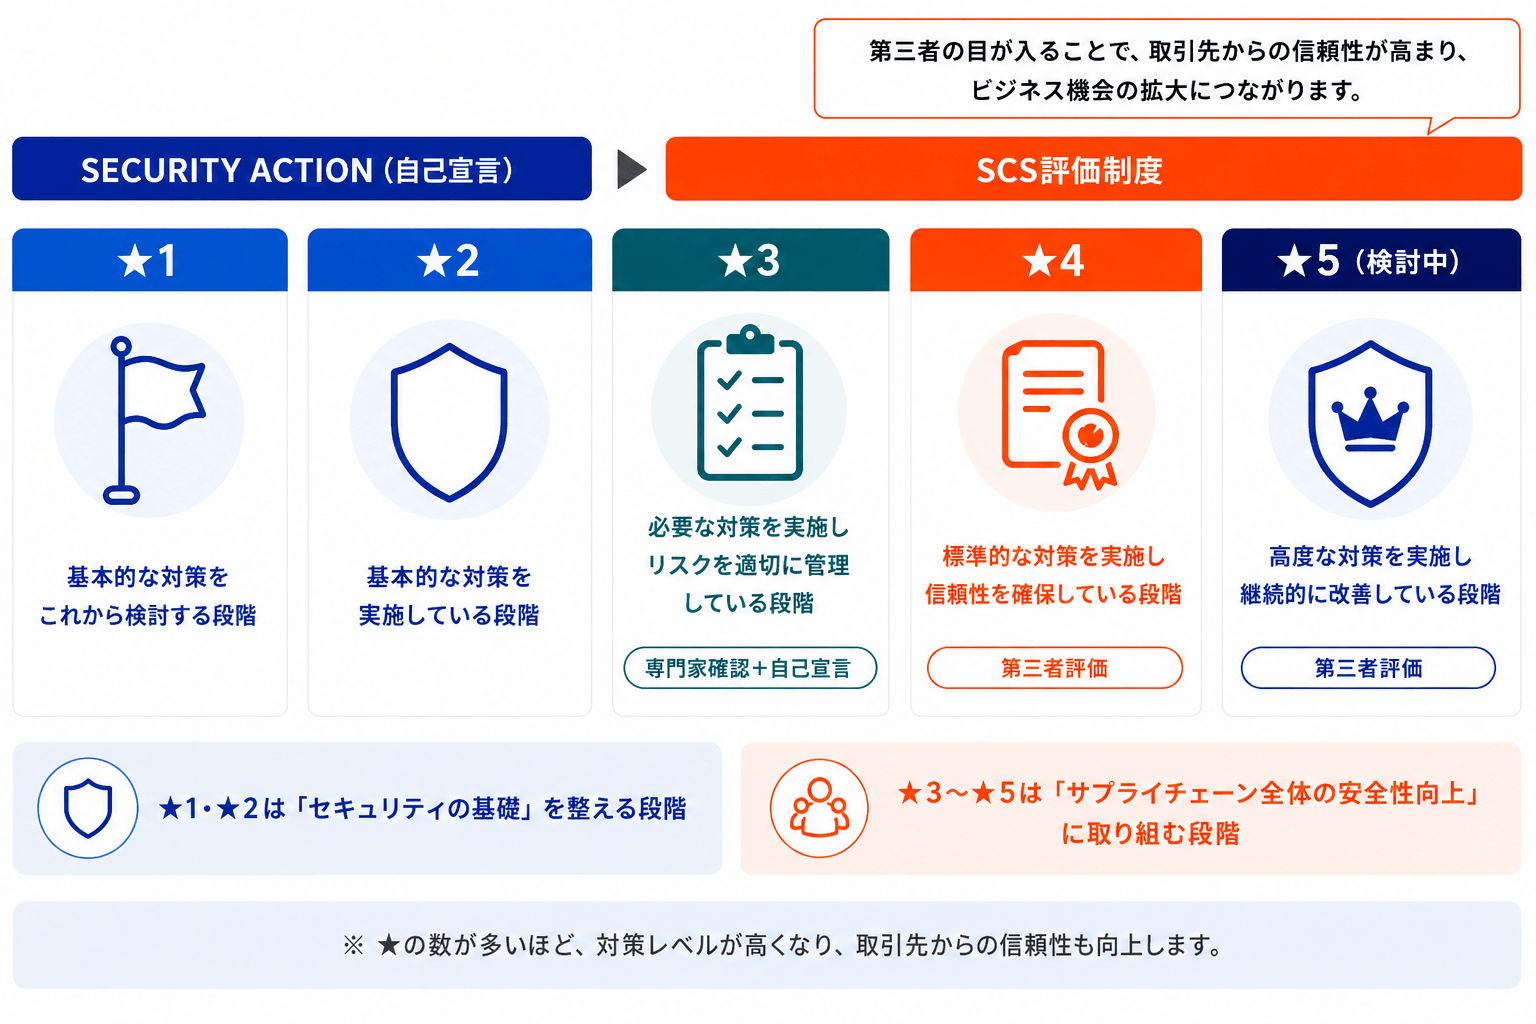
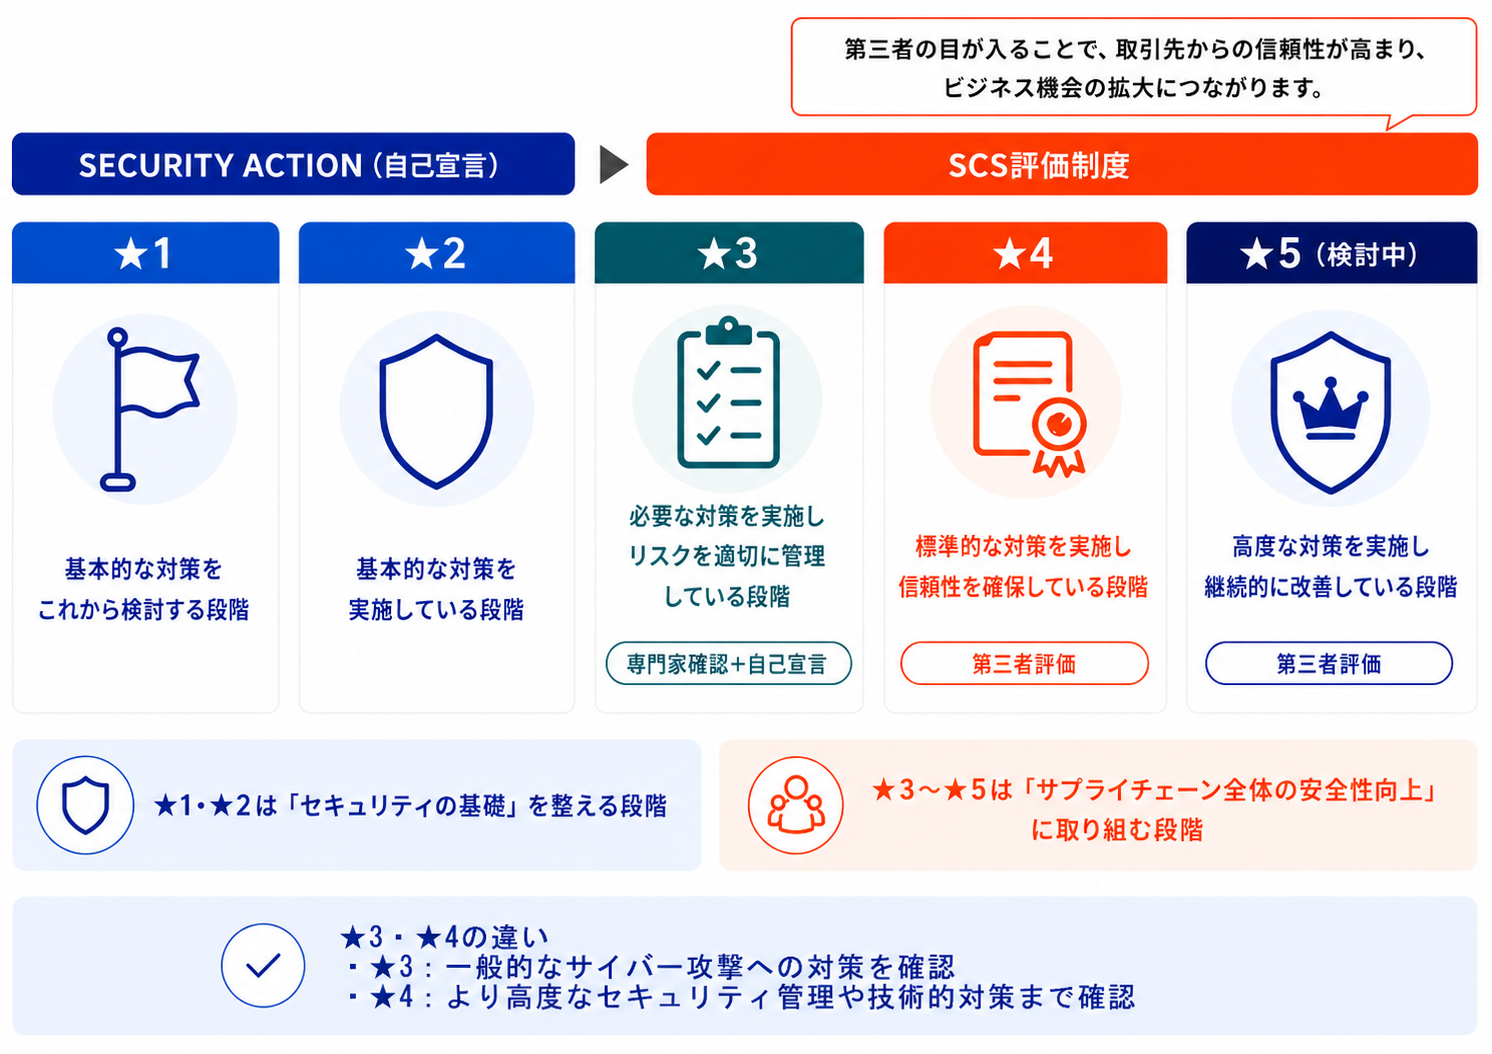
SCS LPの訴求追加とレスポンシブ表示を調整

diff --git a/index.html b/index.html
@@ -37,7 +37,7 @@
             <div class="hero__content">
                 <div class="hero__title-wrap">
                     <h1 class="hero__title">
-                        取引先から<br class="hero__line-break--1">「セキュリティ対策」を<br class="hero__line-break--2">求められる前に。</h1>
+                        取引先から<br class="hero__line-break--1">「セキュリティ対策」を<br class="hero__line-break--2">求められる前に</h1>
                 </div>
                 <div class="hero__lead-wrap">
                     <div class="hero__lead">
@@ -245,8 +245,10 @@
                                 class="concerns__line-break--1">「また一から対応が必要？」「今の運用は活かせないの？」と不安を感じている。</p>
                     </article>
                 </div>
-                <div class="concerns__conclusion">
-                    早めに制度対応を進めることで、取引先への信頼性向上や競合他社との差別化につながります</div>
+                <p class="concerns__conclusion">早めに制度対応を進めることで、取引先への信頼性向上や競合他社との差別化につながります</p>
+                <div class="concerns__certification">
+                    <p class="concerns__certification-note">ISMS・Pマーク取得企業様は<br>既存のルールや運用を活かして効率的に対応できます</p>
+                </div>
             </div>
         </section>
 
@@ -302,8 +304,7 @@
                             <h4 class="support__heading-quaternary--3">対策案の実施・運用</h4>
                             <p class="support__step-text--implementation">
                                 必要に応じて規程・手順書の作成・記録類の整備を支援します。<br
-                                    class="support__line-break--7">運用しやすさを重視し、「作って終わり」ではなく、実際に使える仕組みづくりを行います。<br
-                                    class="support__line-break--9">お客様には定めたルールの運用をお願いいたしします。
+                                    class="support__line-break--7">運用しやすさを重視し、「作って終わり」ではなく、実際に使える仕組みづくりを行います。
                             </p>
                         </div>
                     </article>
@@ -364,6 +365,30 @@
             </div>
         </section>
 
+        <section class="recommended">
+            <div class="recommended__inner">
+                <h2 class="recommended__heading">こんな企業様におすすめです</h2>
+                <div class="recommended__item-list">
+                    <div class="recommended__item--1">
+                        <p>・将来的な取引先要求に備えたい</p>
+                    </div>
+                    <div class="recommended__item--2">
+                        <p>・★3・★4取得を目指したい</p>
+                    </div>
+                    <div class="recommended__item--3">
+                        <p>・セキュリティ対策を見直したい</p>
+                    </div>
+                    <div class="recommended__item--4">
+                        <p>・制度開始後に慌てたくない</p>
+                    </div>
+                    <div class="recommended__item--5">
+                        <p>・まずは現状を整理したい</p>
+                    </div>
+                </div>
+            </div>
+        </section>
+
+
         <section class="proposal">
             <div class="proposal__inner">
                 <h2 class="proposal__heading">
@@ -412,29 +437,6 @@
             </div>
         </section>
 
-        <section class="recommended">
-            <div class="recommended__inner">
-                <h2 class="recommended__heading">こんな企業様におすすめです</h2>
-                <div class="recommended__item-list">
-                    <div class="recommended__item--1">
-                        <p>・将来的な取引先要求に備えたい</p>
-                    </div>
-                    <div class="recommended__item--2">
-                        <p>・★3・★4取得を目指したい</p>
-                    </div>
-                    <div class="recommended__item--3">
-                        <p>・セキュリティ対策を見直したい</p>
-                    </div>
-                    <div class="recommended__item--4">
-                        <p>・制度開始後に慌てたくない</p>
-                    </div>
-                    <div class="recommended__item--5">
-                        <p>・まずは現状を整理したい</p>
-                    </div>
-                </div>
-            </div>
-        </section>
-
         <section class="consultation">
             <div class="consultation__inner">
                 <h2 class="consultation__heading">無料相談でここまで分かります</h2>
@@ -462,6 +464,7 @@
                 </div>
             </div>
         </section>
+
 
         <section class="contact" id="contact-form">
             <div class="contact__inner">

diff --git a/style.css b/style.css
@@ -120,7 +120,6 @@ section,
 .scs-overview__content,
 .security-action__lead,
 .preparation__issues-box,
-.support__introduction,
 .proposal__description,
 .proposal__conclusion,
 .contact__form--1 {
@@ -456,7 +455,7 @@ section,
 .story-cover {
   display: flex;
   min-height: 100svh;
-  background: url("./img/story-cover-background.png") no-repeat center center;
+  background: url("./img/story-cover-background.png") center / cover no-repeat;
   color: var(--color-white);
 }
 
@@ -953,16 +952,16 @@ section,
 }
 
 .concerns__card-decoration--first {
-  top: -60px;
+  top: -40px;
 }
 
 .concerns__card-decoration--second {
-  top: -50px;
-  width: clamp(132px, calc(220 / 1920 * 100vw), 220px);
+  top: -30px;
+  width: clamp(160px, calc(220 / 1920 * 100vw), 220px);
 }
 
 .concerns__card-decoration--third {
-  top: -70px;
+  top: -40px;
 
 }
 
@@ -996,6 +995,41 @@ section,
   font-size: clamp(18px, calc(20 / 1920 * 100vw), 20px);
   font-weight: 700;
   text-align: center;
+}
+
+.concerns__certification {
+  margin-top: var(--space-32);
+  padding: var(--space-32);
+  background: var(--color-light-blue);
+  border-radius: var(--radius-card);
+  text-align: center;
+}
+
+.concerns__certification-note {
+  color: var(--color-primary);
+  font-size: clamp(18px, calc(22 / 1920 * 100vw), 22px);
+  font-weight: 900;
+  line-height: 1.7;
+  font-size: var(--font-title-sm);
+  display: inline;
+  background: linear-gradient(transparent 60%,
+      #fff3a3 60%);
+  background-repeat: no-repeat;
+  background-size: 0 100%;
+}
+
+.concerns__certification-note.is-visible {
+  animation: concerns-marker-fill 1.1s ease-out 0.3s forwards;
+}
+
+@keyframes concerns-marker-fill {
+  from {
+    background-size: 0 100%;
+  }
+
+  to {
+    background-size: 100% 100%;
+  }
 }
 
 /* Support */
@@ -1995,22 +2029,28 @@ section,
     --supply-chain-risk-width: var(--content-width);
   }
 
-  .concerns__card-list,
+  .concerns__card-list {
+    display: grid;
+    grid-template-columns: 1fr;
+    gap: var(--space-28);
+  }
+
   .support-plans__card-list {
     display: grid;
     grid-template-columns: repeat(2, minmax(0, 1fr));
     gap: var(--space-28);
   }
 
-  .concerns__card-list> :last-child:nth-child(odd),
+  .concerns__card-list> :last-child:nth-child(odd) {
+    grid-column: auto;
+    justify-self: stretch;
+    width: auto;
+  }
+
   .support-plans__card-list> :last-child:nth-child(odd) {
     grid-column: 1 / span 2;
     justify-self: center;
     width: calc(50% - (var(--space-28) / 2));
-  }
-
-  .support-plans__card-list {
-    gap: var(--space-28);
   }
 
   .site-footer__navigation {
@@ -2044,6 +2084,29 @@ section,
 
   .support__step-decoration--registration {
     width: clamp(80px, calc(120 / 1920 * 100vw), 120px);
+  }
+
+  .support__step-card--analysis,
+  .support__step-card--planning,
+  .support__step-card--implementation,
+  .support__step-card--registration {
+    grid-template-columns: 1fr;
+    padding-block: 32px;
+    padding-inline: clamp(24px, 5vw, 48px);
+  }
+
+  .support__step-visual--1,
+  .support__step-visual--2,
+  .support__step-visual--3,
+  .support__step-visual--4 {
+    width: 150px;
+    min-height: 150px;
+    margin-inline: auto;
+  }
+
+  .support__step-card--planning .support__step-visual--2,
+  .support__step-card--registration .support__step-visual--4 {
+    order: -1;
   }
 
   .benefits__card-decoration {
@@ -2220,7 +2283,6 @@ section,
   .benefits__card-list,
   .recommended__item-list,
   .consultation__benefit-list,
-  .support-plans__card-list,
   .site-footer__navigation {
     grid-template-columns: 1fr;
   }
@@ -2232,6 +2294,10 @@ section,
   .concerns__card-decoration {
     top: -32px;
     width: 96px;
+  }
+
+  .concerns__card-decoration--second {
+    width: 140px;
   }
 
   .scs-overview__stakeholder-decoration {
@@ -2329,6 +2395,11 @@ section,
   .support-plans__card-heading--improvement,
   .support-plans__card-heading--consulting {
     min-height: 0;
+  }
+
+  .support-plans__card-heading--analysis,
+  .support-plans__card-heading--consulting {
+    min-height: 3em;
   }
 
   br {
@@ -2527,6 +2598,7 @@ section,
   .concerns__card-text--second,
   .concerns__card-text--third,
   .concerns__conclusion,
+  .concerns__certification-note,
   .support__intro-text,
   .support__step-text--analysis,
   .support__step-text--planning,
@@ -2698,8 +2770,14 @@ section,
 }
 
 @media (prefers-reduced-motion: reduce) {
-  .story-cover__scroll-arrow {
+
+  .story-cover__scroll-arrow,
+  .concerns__certification-note {
     animation: none;
+  }
+
+  .concerns__certification-note {
+    background-size: 100% 100%;
   }
 
   .hero__title,

diff --git a/js/script.js b/js/script.js
@@ -155,6 +155,7 @@ document.addEventListener("DOMContentLoaded", () => {
     ".preparation__conclusion",
     ".concerns__heading",
     ".concerns__conclusion",
+    ".concerns__certification-note",
     ".support__heading",
     ".support__introduction",
     ".support__subheading",
